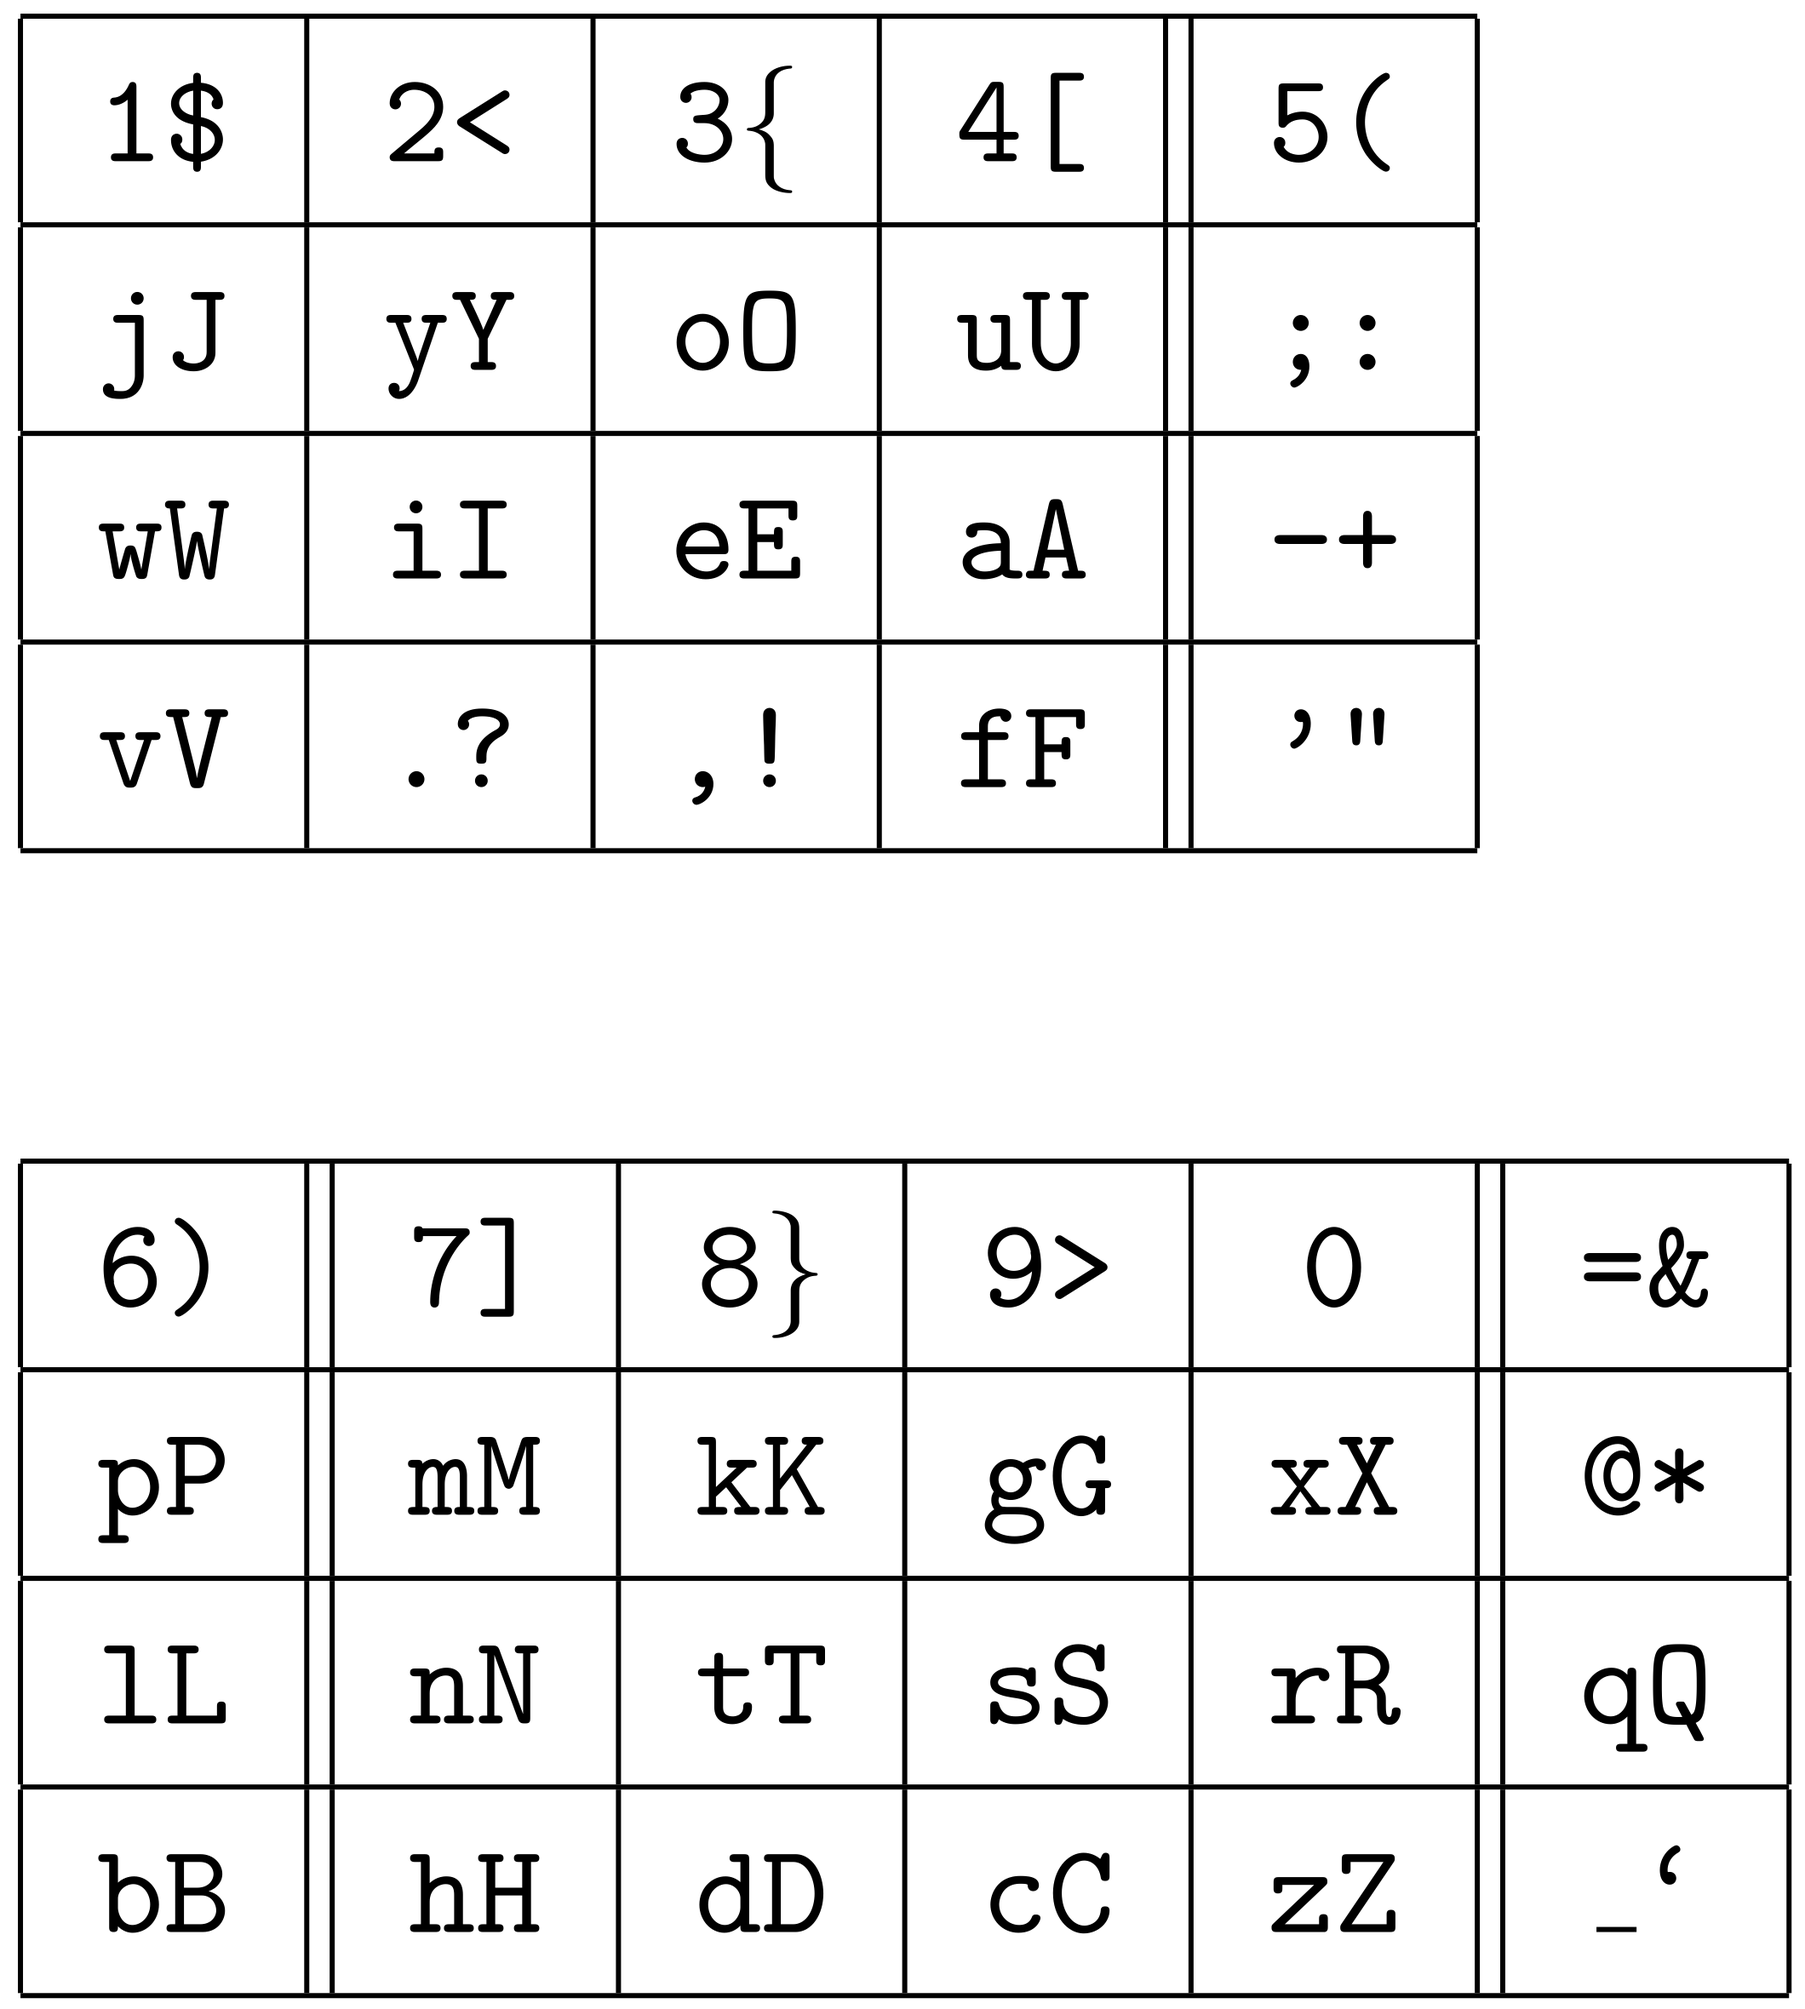
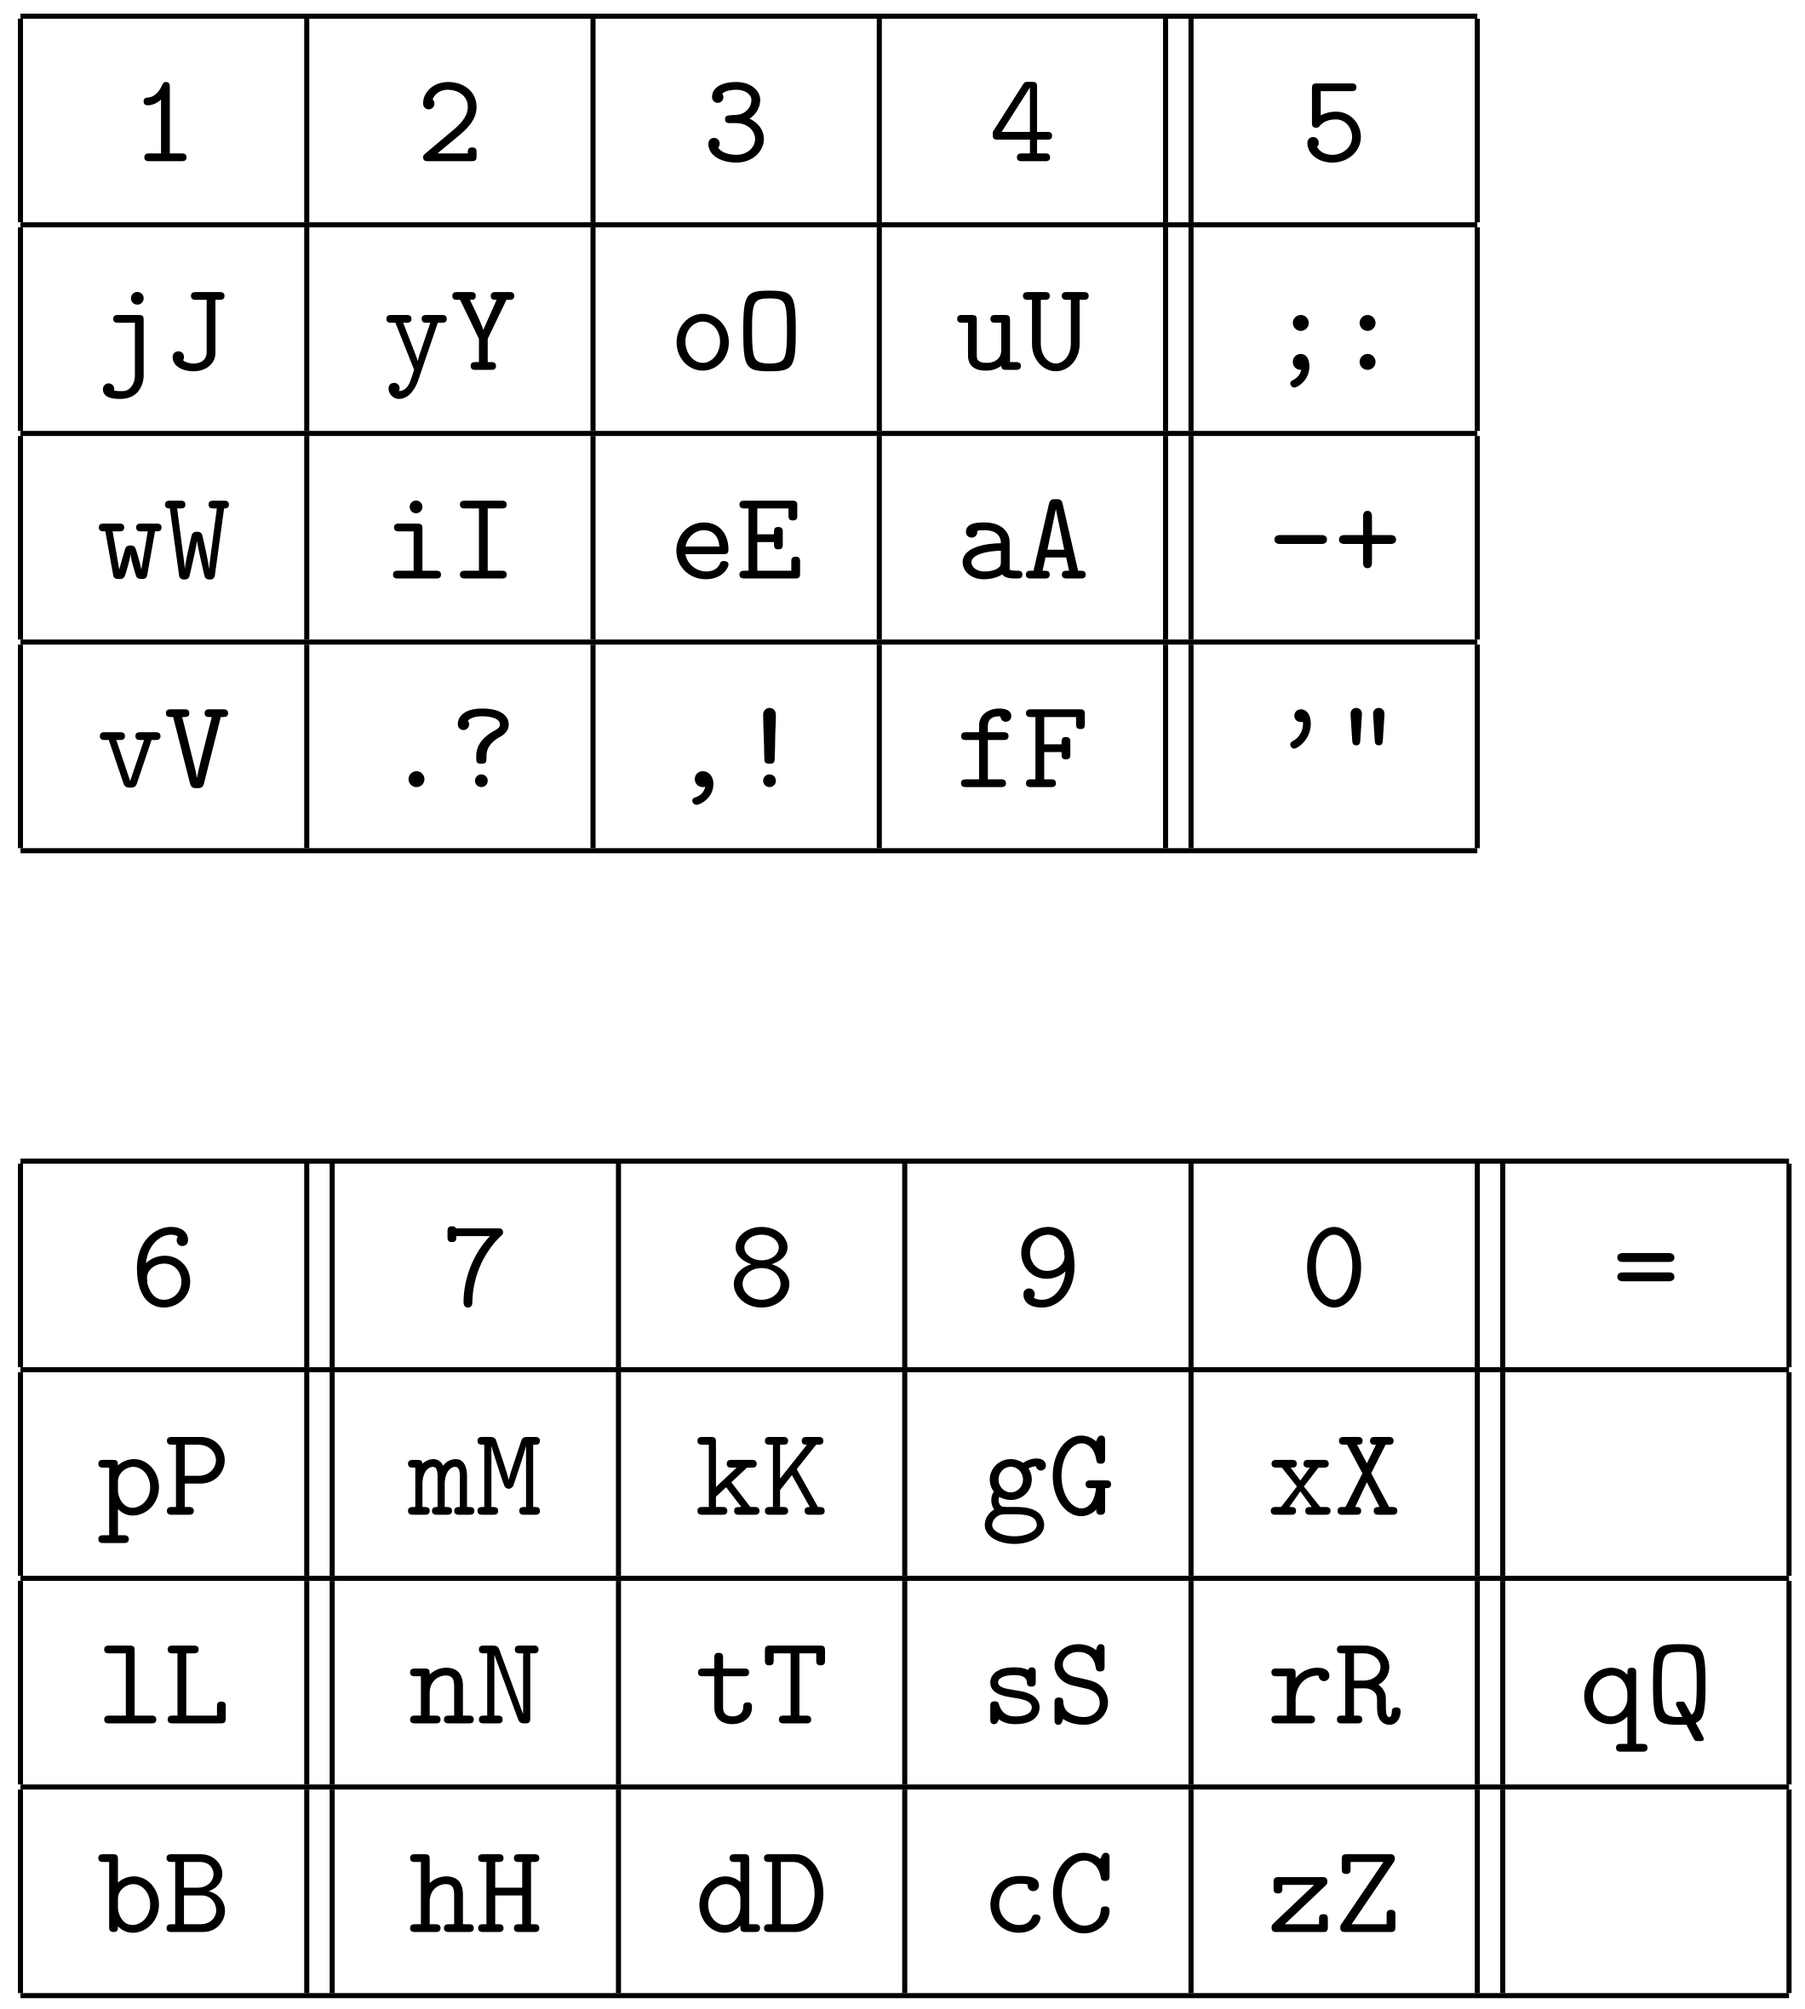
うん

diff --git a/README.md b/README.md
@@ -1,9 +1,26 @@
 # MKeyboardLayout
+
 日本語ローマ字入力（及び英語入力）に特化したキーボードレイアウト
 
 ## 配列
+
 ![layout](https://github.com/cwd-k2/MKeyboardLayout/blob/master/resources/keylayout.png)
 
+ここに示してあるのは配列の一部のみです．
+それ以外の，記号等の配列については特に指定していません．
+
 ## 特徴
+
 - 母音、子音が左右に分かれていることで交互打鍵の割合を多くした
+- 母音・子音それぞれの配置も，日本語入力時の登場頻度を基に設計
+  - 暗黙の前提として，人差し指・中指＞薬指＞小指の順に指の強さがあると仮定しています
 - 英語は二の次
+
+## やること
+
+- 各環境用にキー配列を実現するファイルを用意する
+
+## やりたいこと
+
+- 簡単な形式のキー配列の定義から自動的に各種環境用のファイルを生成する仕組み
+- キー配列の評価・可視化をするプログラム
